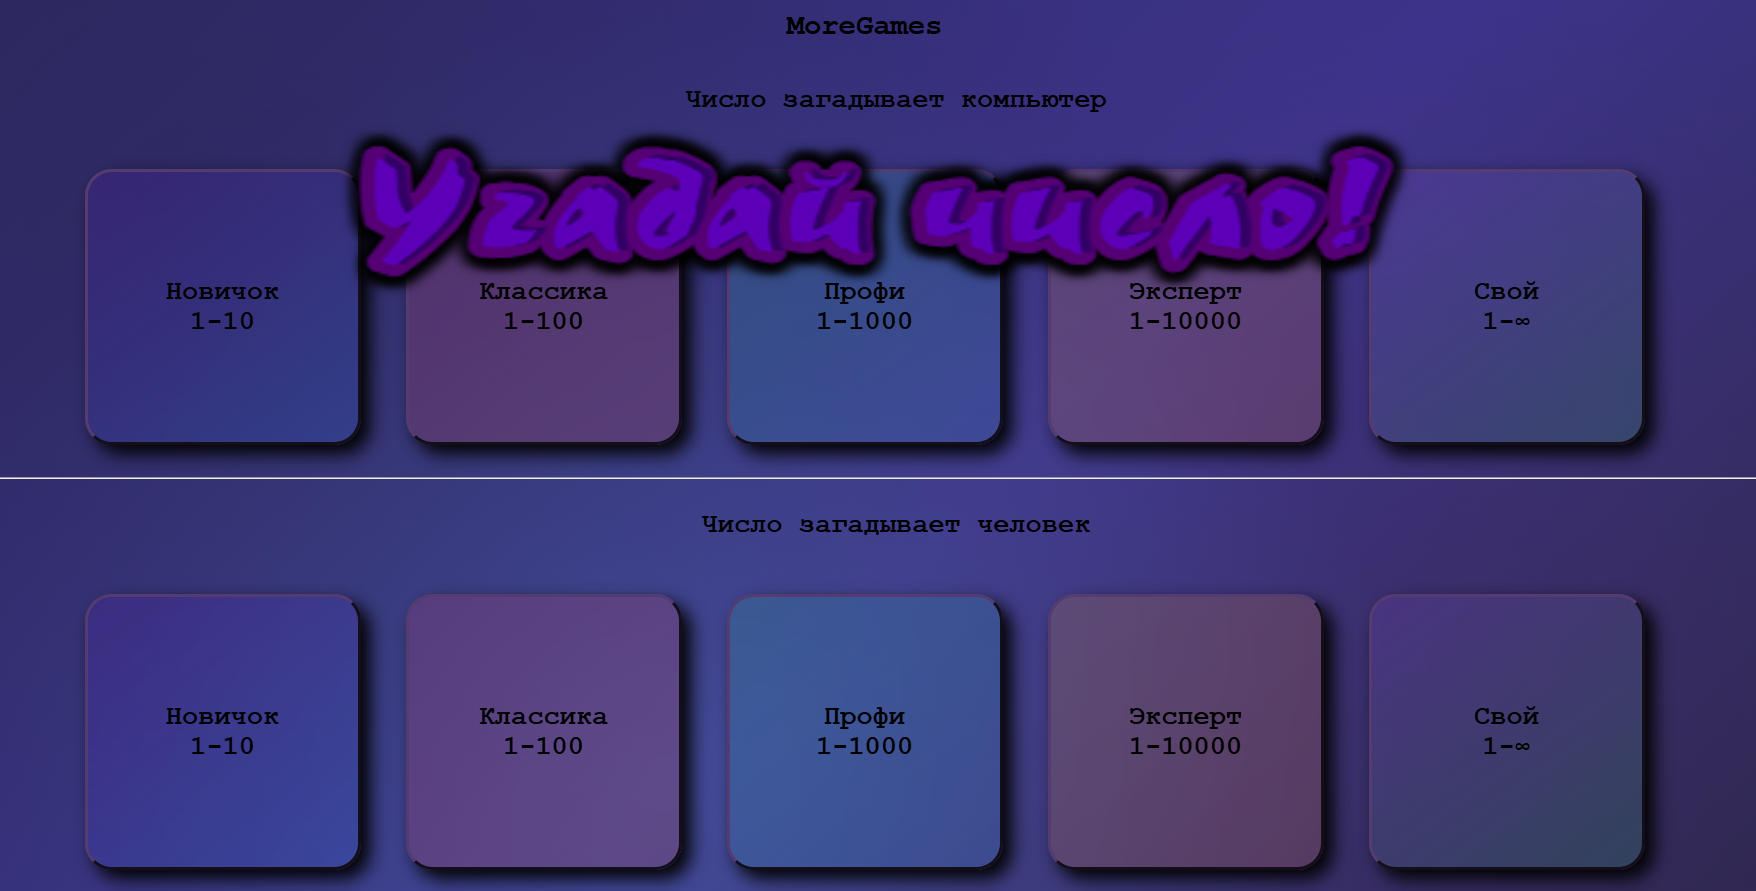
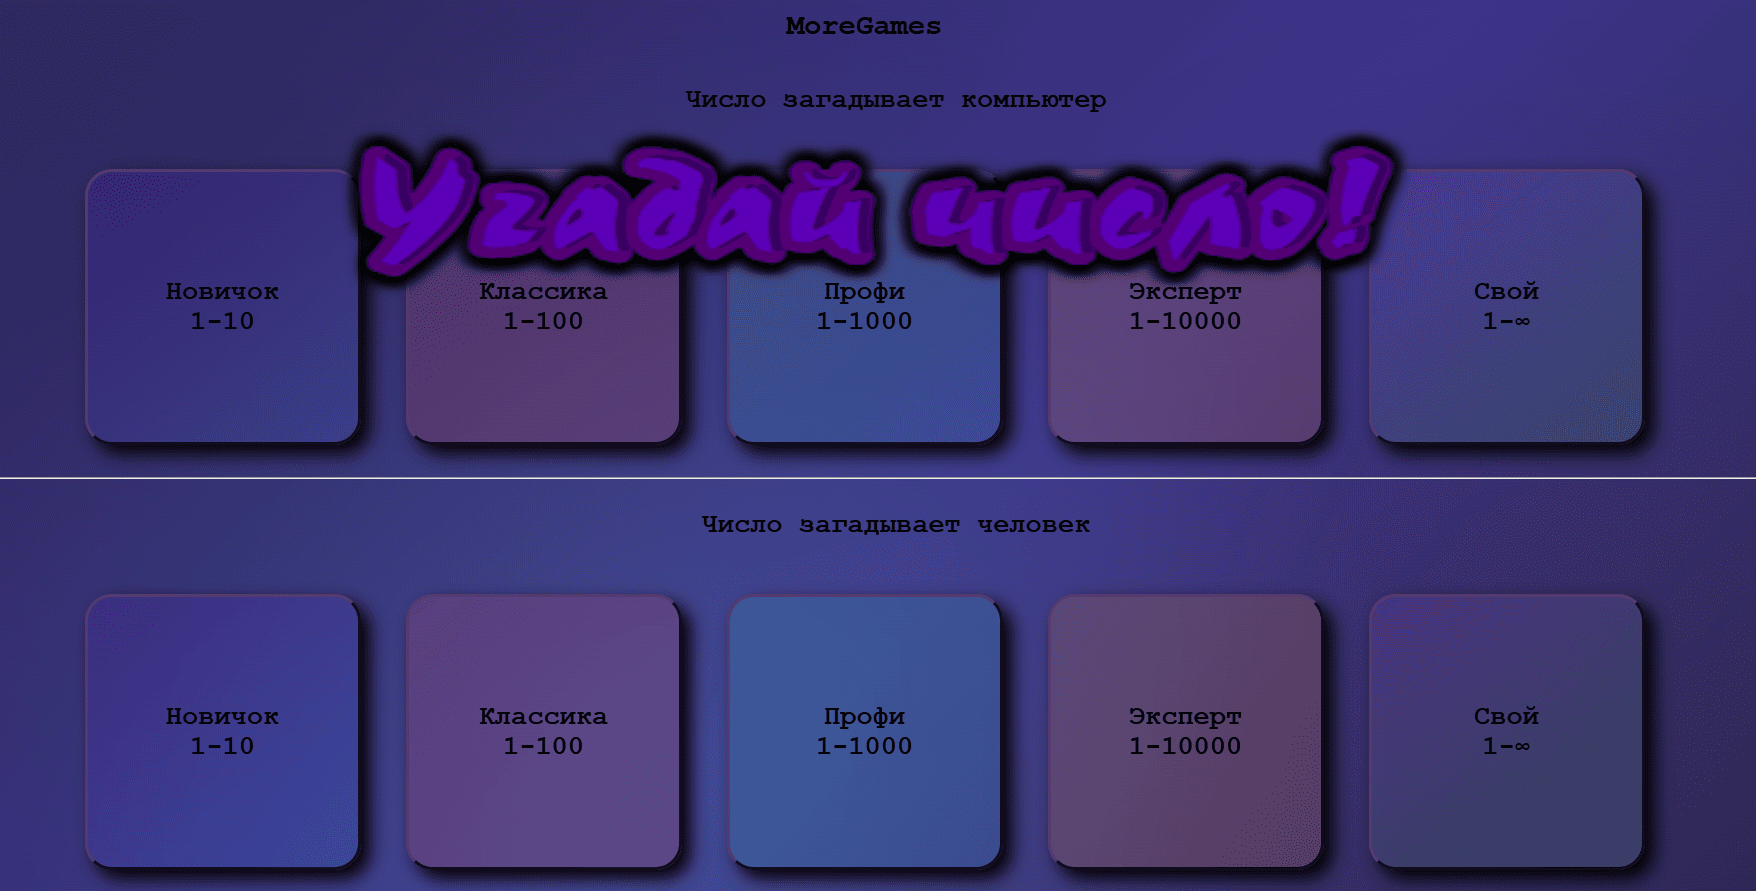
v0.0.0.3.10

Changed region(s): [[0.8918, 0.4242, 0.9226, 0.4848], [0.861, 0.5758, 0.8918, 0.6061]]

diff --git a/play.html b/play.html
@@ -30,24 +30,28 @@
         // Слушаем сообщения из iframe с рекламой
         window.addEventListener('message', (event) => {
 
+            const type = event.data.type;
             const typeAd = event.data.typeAd;
             const tipeGive = event.data.tipeGive;
 
-            console.log("do sudo doshlo")
             console.log("typeAa "+typeAd)
 
             // Сообщение от игры: показать рекламу
-            if (typeAd === 'rewarded') {
-                showAdRewarded();
-            }
-
-            if (event.data === 'ad_complete') {
-                // Реклама просмотрена! Даём награду
-                adOverlay.style.display = 'none';
-                alert('🎉 Вы получили !'+tipeGive);
+            if(type === 'start'){
+                if (typeAd === 'rewarded') {
+                    adOverlay.contentWindow.postMessage({
+                        typeAd: typeAd,
+                        tipeGive: tipeGive
+                    }, '*');
+                    showAdRewarded();
+                }
+            }else if (type === 'finish'){
+                    // Реклама просмотрена! Даём награду
+                    adOverlay.style.display = 'none';
+                    alert('🎉 Вы получили !'+tipeGive);
                 
-                // Здесь можно вызвать функцию игры
-                // Например: gameFrame.contentWindow.giveBonus();
+                    // Здесь можно вызвать функцию игры
+                    // Например: gameFrame.contentWindow.giveBonus();
             }
         });
         

diff --git a/ad.html b/ad.html
@@ -156,6 +156,15 @@
         // Блокируем контекстное меню (ПКМ)
         document.addEventListener('contextmenu', (e) => e.preventDefault());
         
+        let typeAd;
+        let tipeGive;
+
+        window.addEventListener('message', (event) => {
+
+            typeAd = event.data.typeAd;
+            tipeGive = event.data.tipeGive;
+        });
+
         // Когда видео закончилось (запасной вариант)
         video1.onended = () => {
             if (!timerFinished) {
@@ -167,8 +176,10 @@
         };
         
         // При клике на "Получить награду"
-        closeBtn.onclick = () => {
-            window.parent.postMessage('ad_complete', '*');
+        closeBtn.onclick = () => {window.parent.postMessage({
+                    typeAd: typeAd,
+                    tipeGive: tipeGive
+                }, '*');
         };
     </script>
 </body>

diff --git a/index.html b/index.html
@@ -24,7 +24,7 @@
     <h1>🎮 DesertBox - Игровой Хаб</h1>
     <div class="subtitle">Выбери игру, узнай подробности и начни играть</div>
     <div class="games-grid" id="gamesGrid"></div>
-    <footer>© by MrDesert v0.0.0.3.9 DesertBox - Хаб игр</footer>
+    <footer>© by MrDesert v0.0.0.3.10 DesertBox - Хаб игр</footer>
 </div>
 <script src="script.js"></script>
 </body>